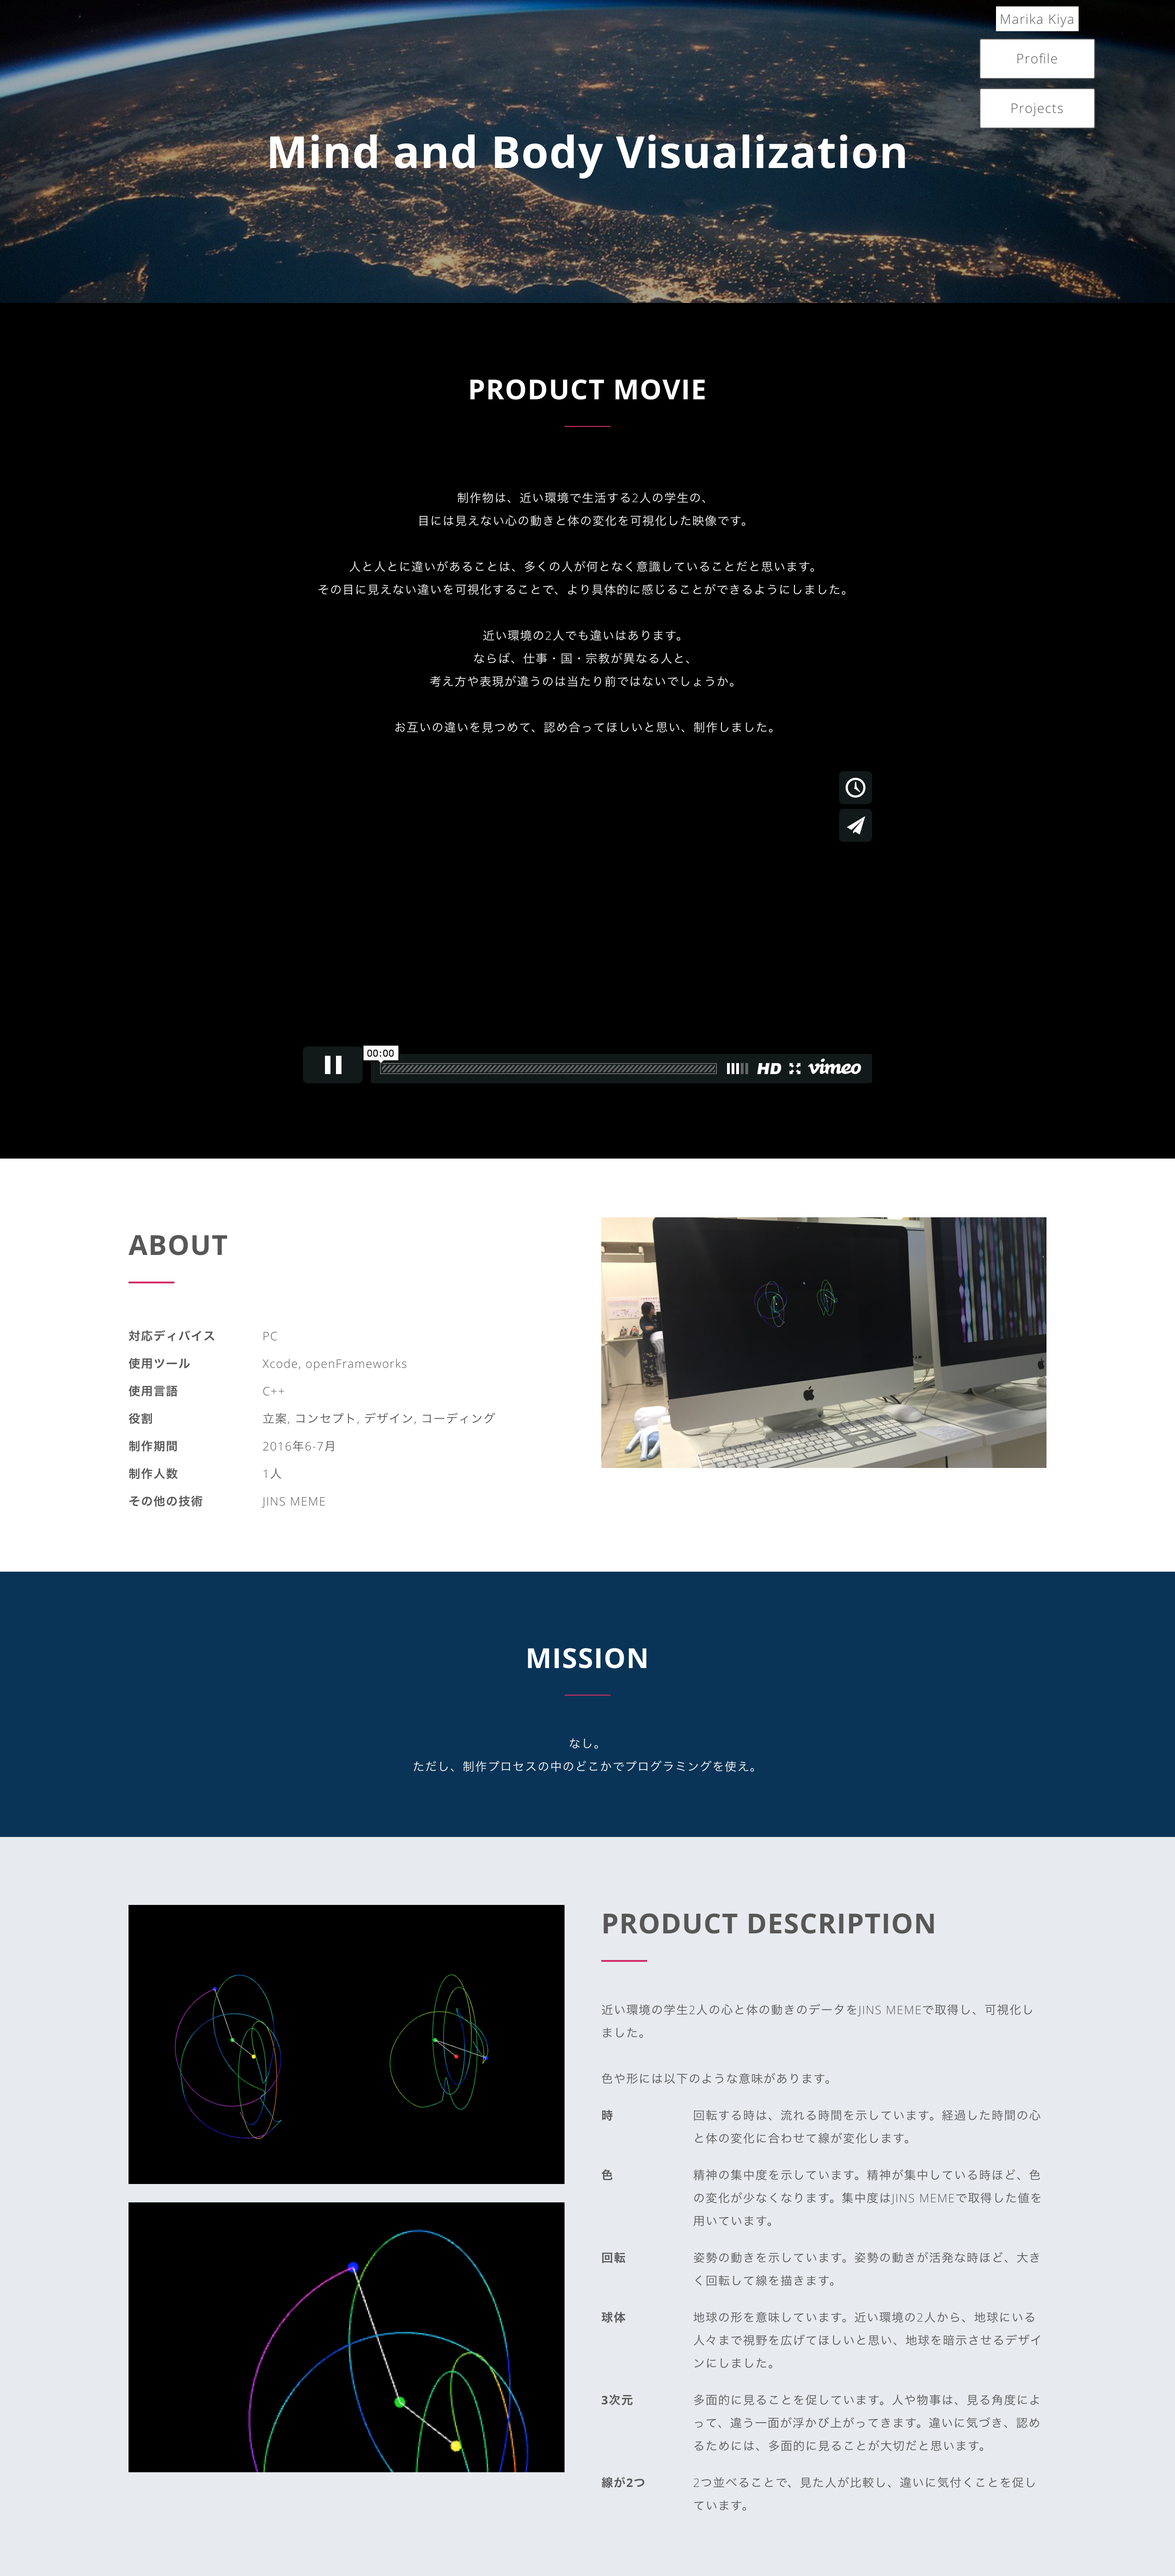
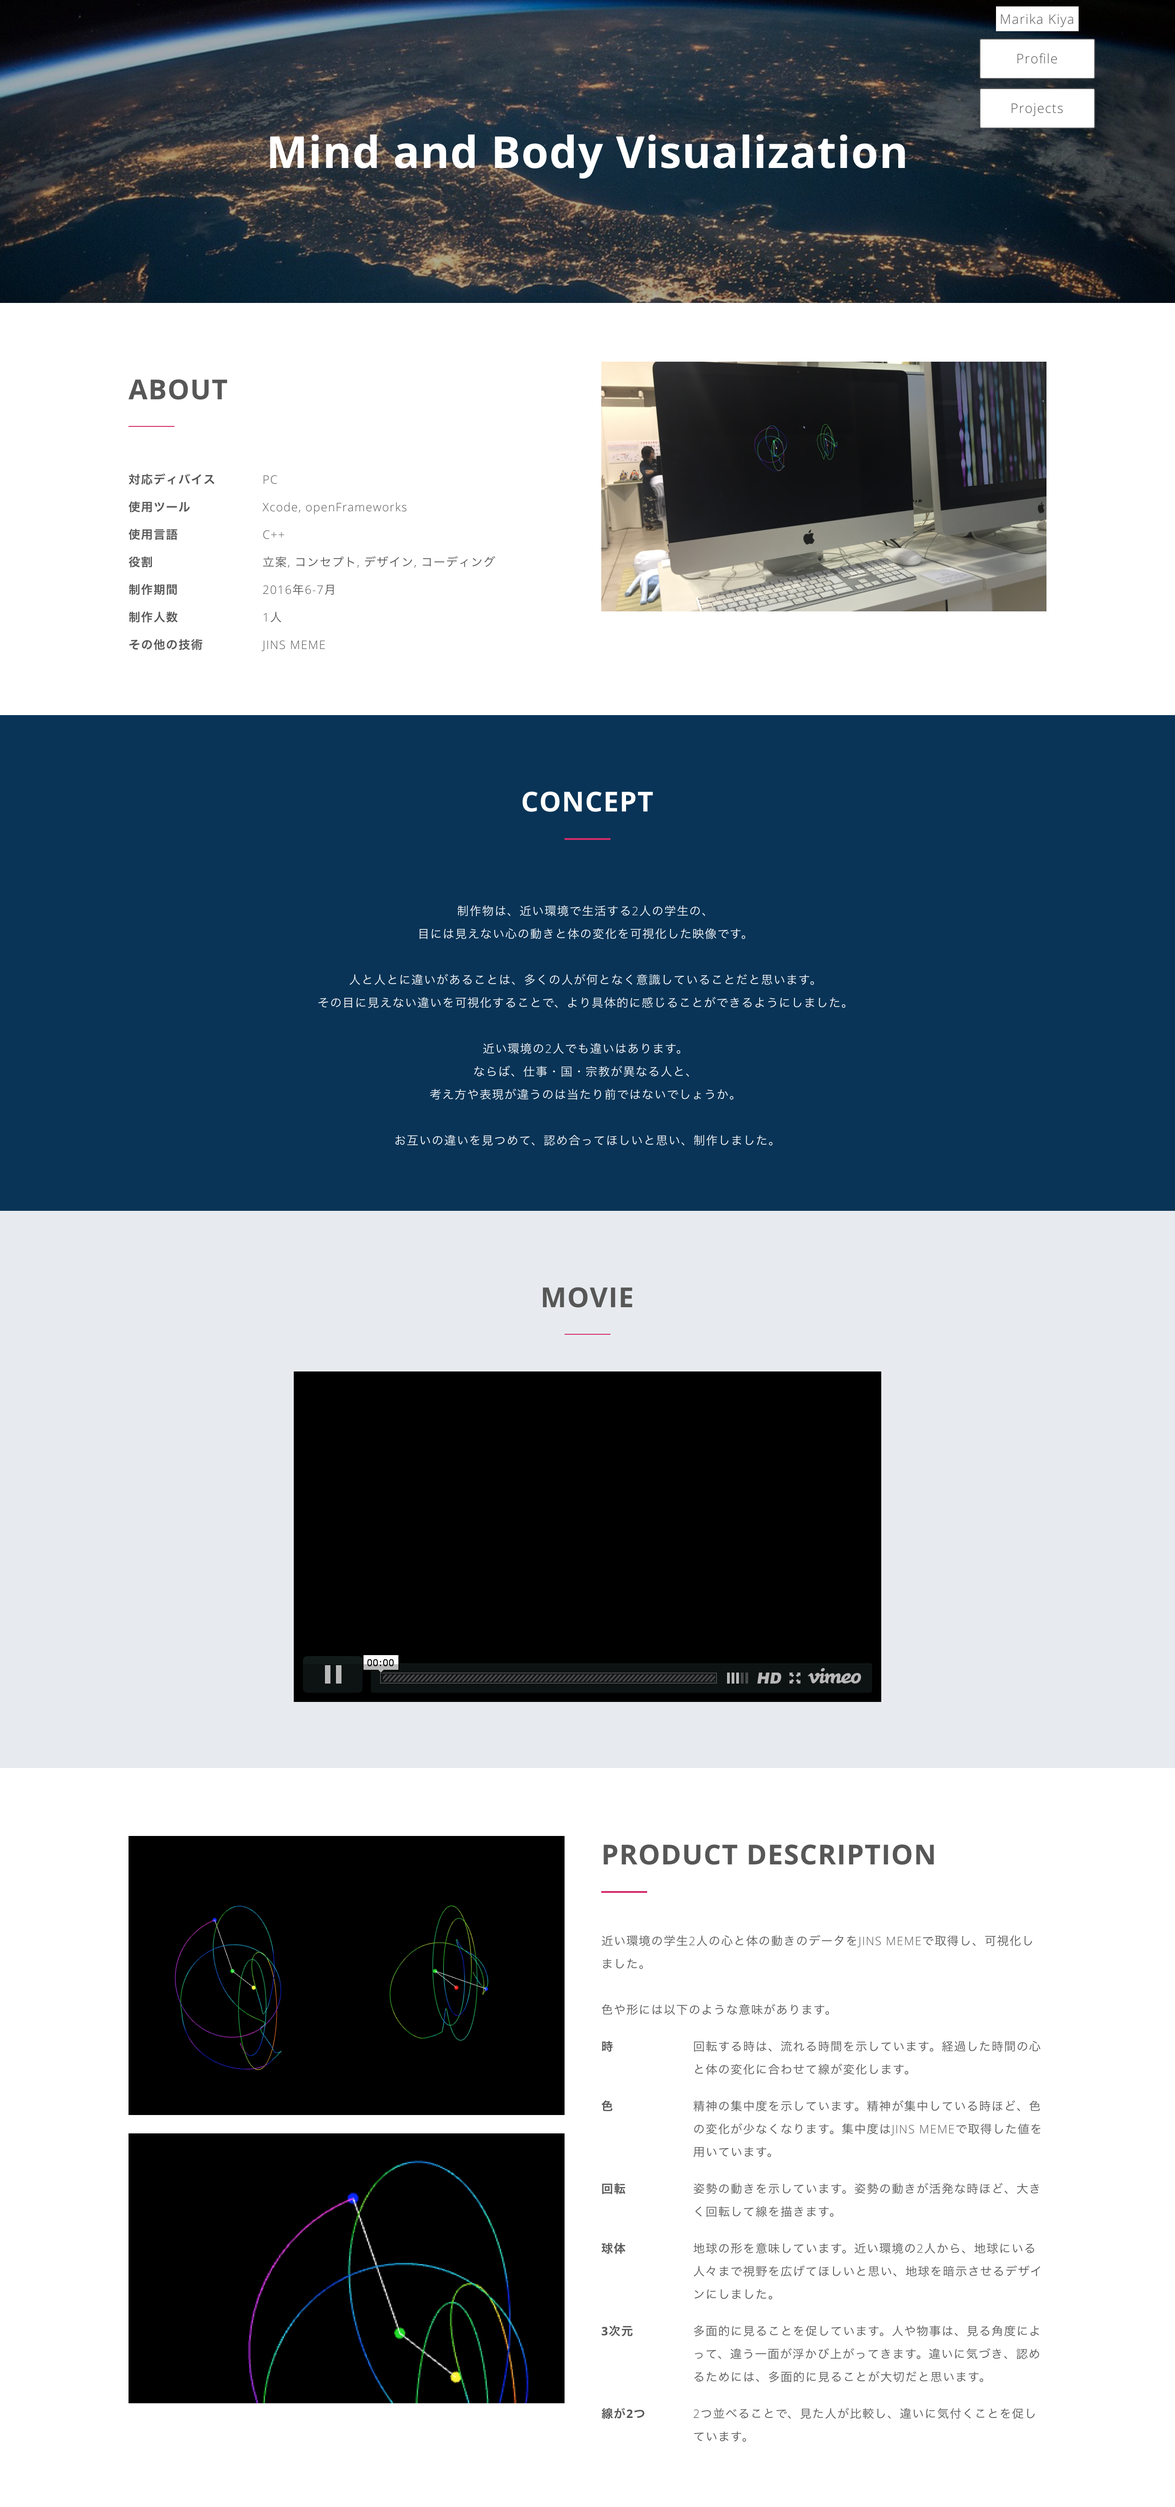
padding

diff --git a/css/style.css b/css/style.css
@@ -83,7 +83,7 @@ Main components
   background-position: center center;
   z-index: 1;
 
-  padding: 4em 4em;
+  padding: 4em 0.5em;
 
 }
 .cd-fixed-bg.about-A {
@@ -251,7 +251,7 @@ div.target-user div.back-white ul{
 .cd-scrolling-bg {
   position: relative;
   min-height: 40%; /* 100% */
-  padding: 4em 4em; /* 4em 0 */
+  padding: 4em 0.5em; /* 4em 0 */
   line-height: 1.6; /*1.6*/
   z-index: 2;
 }
@@ -306,7 +306,7 @@ div.target-user div.back-white ul{
     font-size: 20px;
     font-size: 0.8rem; /* 1.25 */
     line-height: 2;
-    font-weight: 300;
+    font-weight: 300;    
   }
   section{
     padding: 3em 0;

diff --git a/math-workshop.html b/math-workshop.html
@@ -63,10 +63,10 @@
 		</div> <!-- cd-scrolling-bg -->
 
 		<div class="cd-scrolling-bg cd-color-dark-kyn about-C">
-			<div class="cd-container">
+			<div class="cd-container  center">
 				<div class="row">
-	             	<div class="col-md-12 mission">   
-	              	  	<h2><b>MISSION</b></h2>  
+	             	<div class="col-md-12">   
+	              	  	<h2><b>CONCEPT</b></h2>  
 	              	  	<hr>        
 	              	  	数学は、理科や社会と比べて、生活の中のどこに使われているのか、どうやって使うのか、見えにくいです。
 	              	  	<br>
